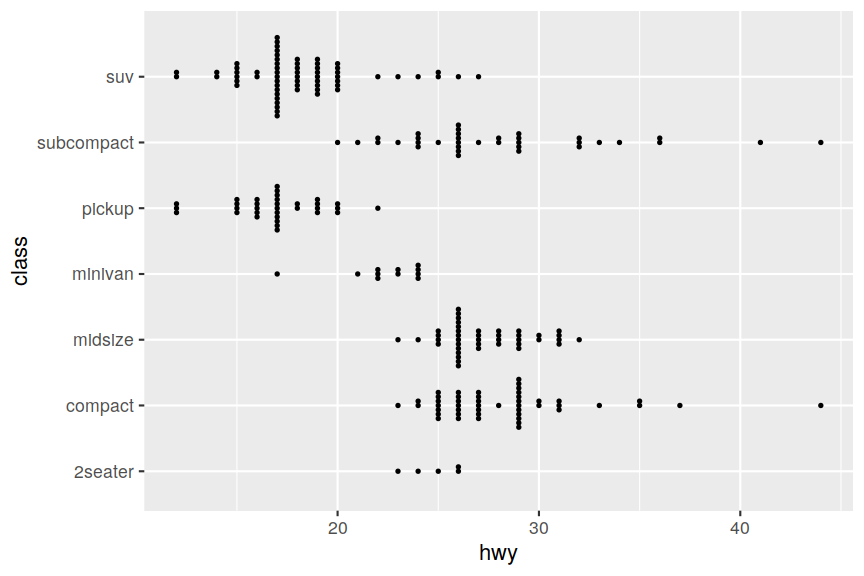
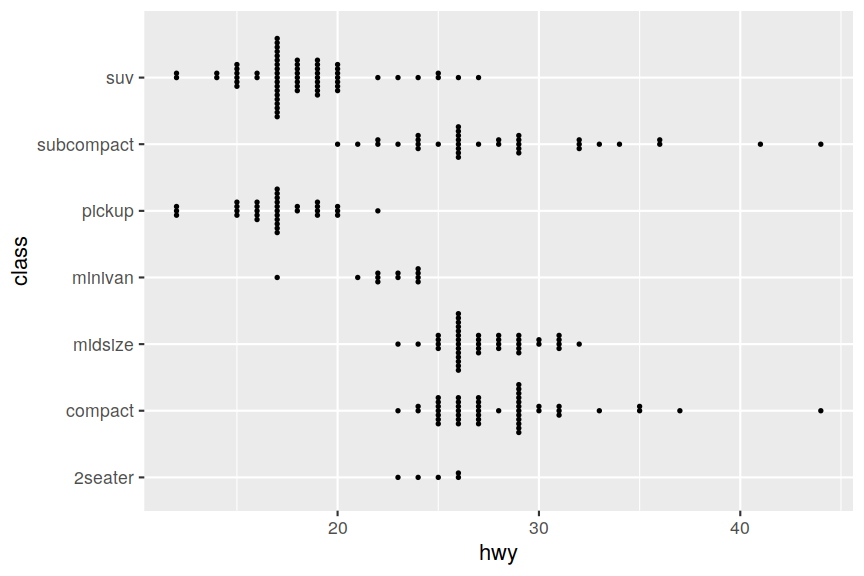
Tweak README limit setting

diff --git a/README.md b/README.md
@@ -152,7 +152,7 @@ ggplot(mpg,aes(hwy, class)) + geom_beeswarm(size=.6,groupOnX=FALSE)
 
 ```r
 # Also watch out for points escaping from the plot with geom_beeswarm
-ggplot(mpg,aes(hwy, class)) + geom_beeswarm(size=.6,groupOnX=FALSE) + expand_limits(y=c(1,8))
+ggplot(mpg,aes(hwy, class)) + geom_beeswarm(size=.6,groupOnX=FALSE) + scale_y_discrete(expand=expand_scale(add=c(0.5,1)))
 ```
 
 <img src="README_files/figure-html/ggplot2-beeswarm-4.png" title="plot of chunk ggplot2-beeswarm" alt="plot of chunk ggplot2-beeswarm" width="432" />
